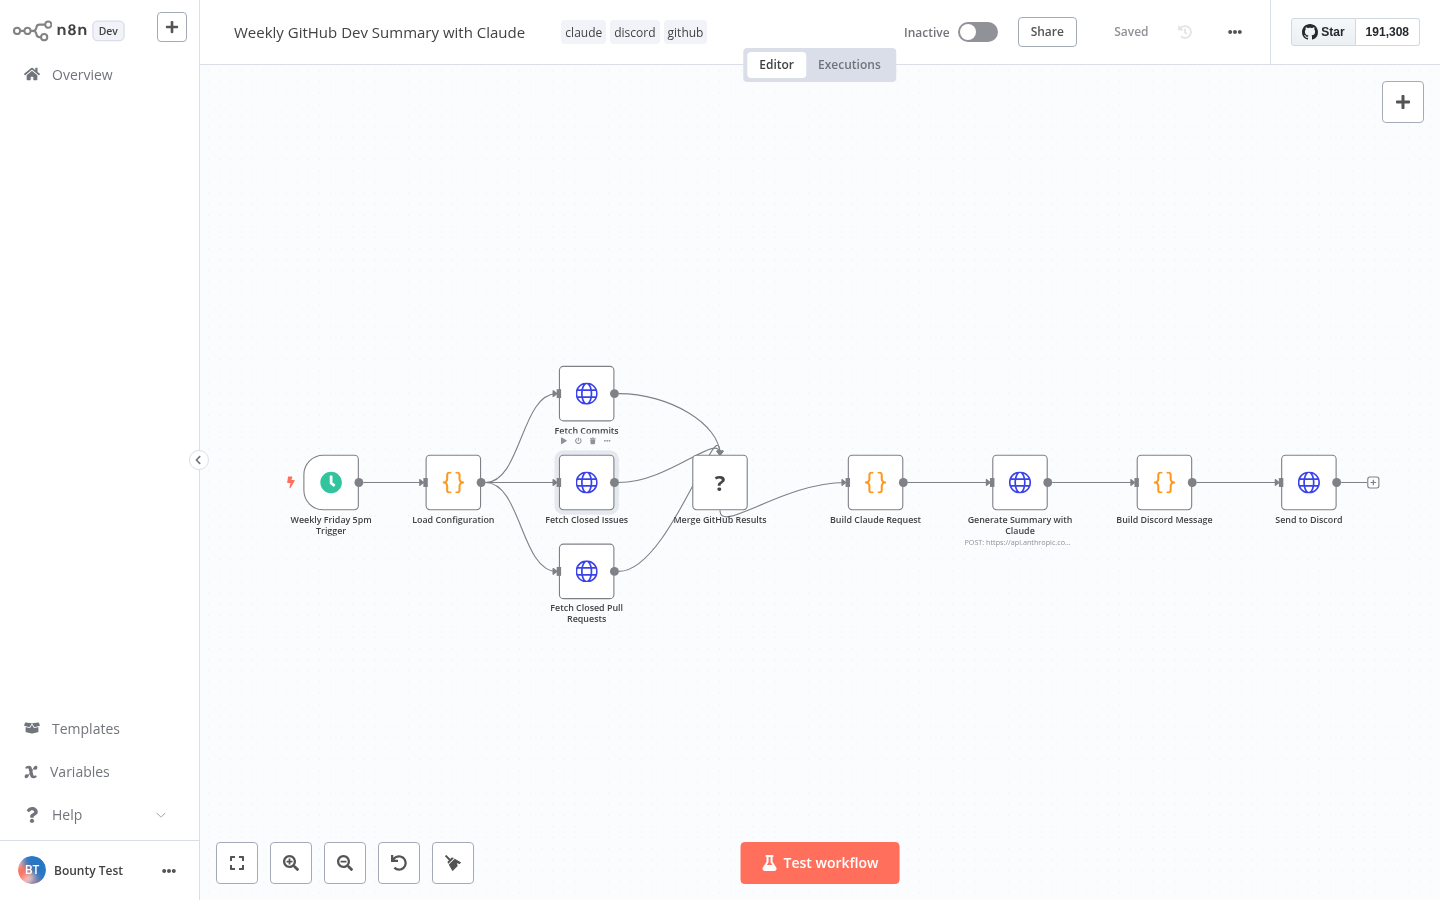
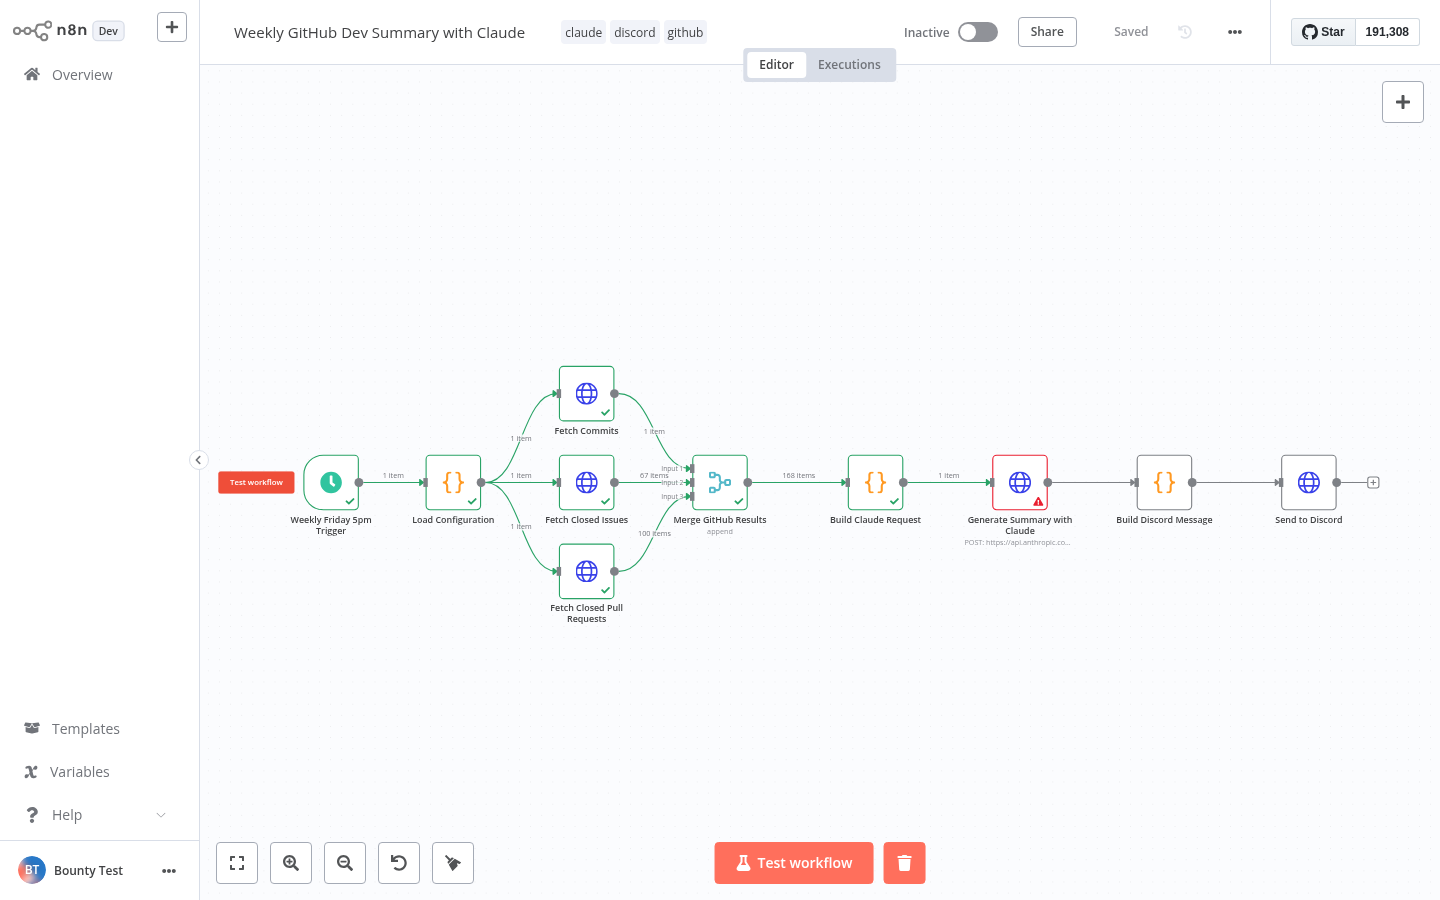
fix: document append merge and refresh n8n execution screenshot
Shows successful GitHub fetch + merge on n8n v1.82; Claude step fails
only due to missing test API key. Improves screenshot capture script.

diff --git a/workflows/README.md b/workflows/README.md
@@ -31,7 +31,7 @@ Friday 5pm Trigger → Load Configuration → parallel GitHub fetches (commits, 
   → Merge → Build Claude Request → Claude API → Discord webhook
 ```
 
-GitHub fetch nodes use **Always Output Data** so a quiet week still produces a summary.
+GitHub fetch nodes use **Always Output Data** so a quiet week still produces a summary. The merge node uses **Append** mode with three inputs to wait for all parallel fetches before building the Claude prompt.
 
 ## Validation
 
